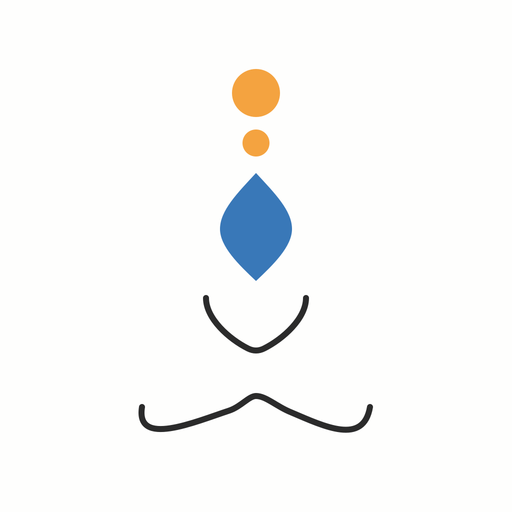
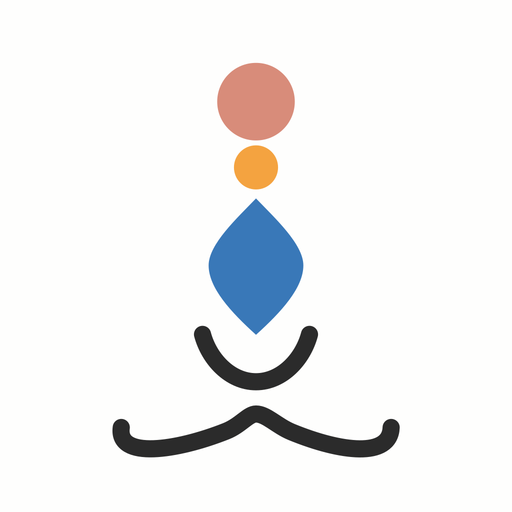
Apply coral Vibes wordmark and prepare 1.3.3 store builds

Changed region(s): [[0.2188, 0.125, 0.7812, 0.9062]]

diff --git a/components/VibesWordmark.tsx b/components/VibesWordmark.tsx
@@ -1,0 +1,18 @@
+import React from "react";
+import { View, type StyleProp, type ViewStyle } from "react-native";
+import Svg, { Path } from "react-native-svg";
+import { logoMorphPath, logoMorphRenderShapes } from "../src/illustrations/logoMorph";
+
+// The same Josefin outlines as the intro, including the independently coral i dot.
+const points = logoMorphRenderShapes.flatMap(shape => shape.contours.flatMap(contour => contour.from));
+const left = Math.min(...points.map(point => point[0])) - 4;
+const right = Math.max(...points.map(point => point[0])) + 4;
+export default function VibesWordmark({ fontSize = 40, style }: { fontSize?: number; style?: StyleProp<ViewStyle> }) {
+  return (
+    <View style={[{ width: fontSize * (right - left) / 300, height: fontSize }, style]} accessible accessibilityLabel="Vibes">
+      <Svg width="100%" height="100%" viewBox={`${left} 435 ${right - left} 300`} preserveAspectRatio="xMidYMid meet">
+        {logoMorphRenderShapes.map(shape => <Path key={shape.letter} d={logoMorphPath(shape, 0)} fill={shape.color} fillRule="nonzero" />)}
+      </Svg>
+    </View>
+  );
+}

diff --git a/src/components/VibesHeader.tsx b/src/components/VibesHeader.tsx
@@ -10,6 +10,7 @@ import {
   type ViewStyle,
 } from "react-native";
 import { Text } from "../../components/Typography";
+import VibesWordmark from "../../components/VibesWordmark";
 import { vibesTheme } from "../theme/vibesTheme";
 
 export type VibesHeaderProps = {
@@ -39,6 +40,9 @@ const VibesHeader = ({
     <View
       style={[styles.container, isCenter ? styles.center : styles.left, style]}
     >
+      {title === "Vibes" ? (
+        <VibesWordmark fontSize={StyleSheet.flatten(titleStyle)?.fontSize ?? 54} style={{ marginTop: 22 }} />
+      ) : (
       <Text
         style={[styles.title, !isCenter && styles.leftText, titleStyle]}
         numberOfLines={titleNumberOfLines}
@@ -47,6 +51,7 @@ const VibesHeader = ({
       >
         {title}
       </Text>
+      )}
       {subtitle ? (
         <Text
           style={[styles.subtitle, !isCenter && styles.leftText, subtitleStyle]}

diff --git a/components/AppHeader.tsx b/components/AppHeader.tsx
@@ -9,6 +9,7 @@ import {
   View,
   ViewStyle,
 } from "react-native";
+import VibesWordmark from "./VibesWordmark";
 import { Text } from "./Typography";
 import { useNavigation } from "@react-navigation/native";
 import Icon from "./Icon";
@@ -82,6 +83,7 @@ const AppHeader = ({
         {children ?? (
           <>
             {title ? (
+              title === "Vibes" ? <VibesWordmark fontSize={StyleSheet.flatten(titleStyle)?.fontSize ?? 26} /> : (
               <Text
                 style={[styles.title, titleStyle]}
                 numberOfLines={titleNumberOfLines}
@@ -90,6 +92,7 @@ const AppHeader = ({
               >
                 {title}
               </Text>
+              )
             ) : null}
             {subtitle ? (
               <Text style={[styles.subtitle, subtitleStyle]} numberOfLines={2}>
